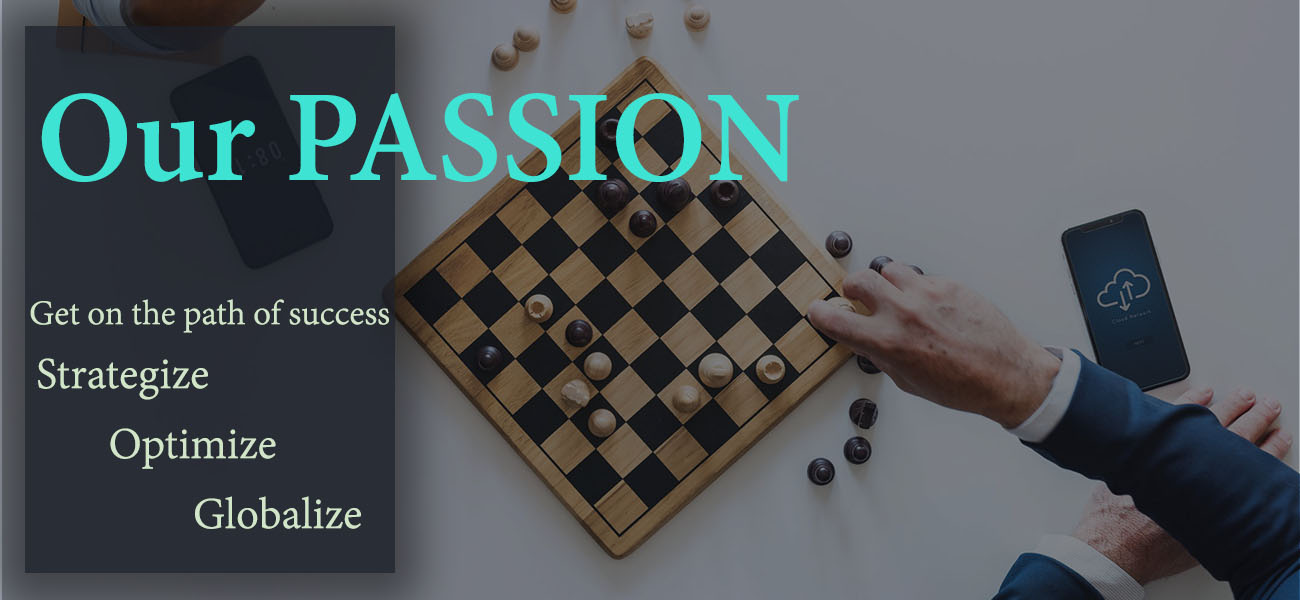
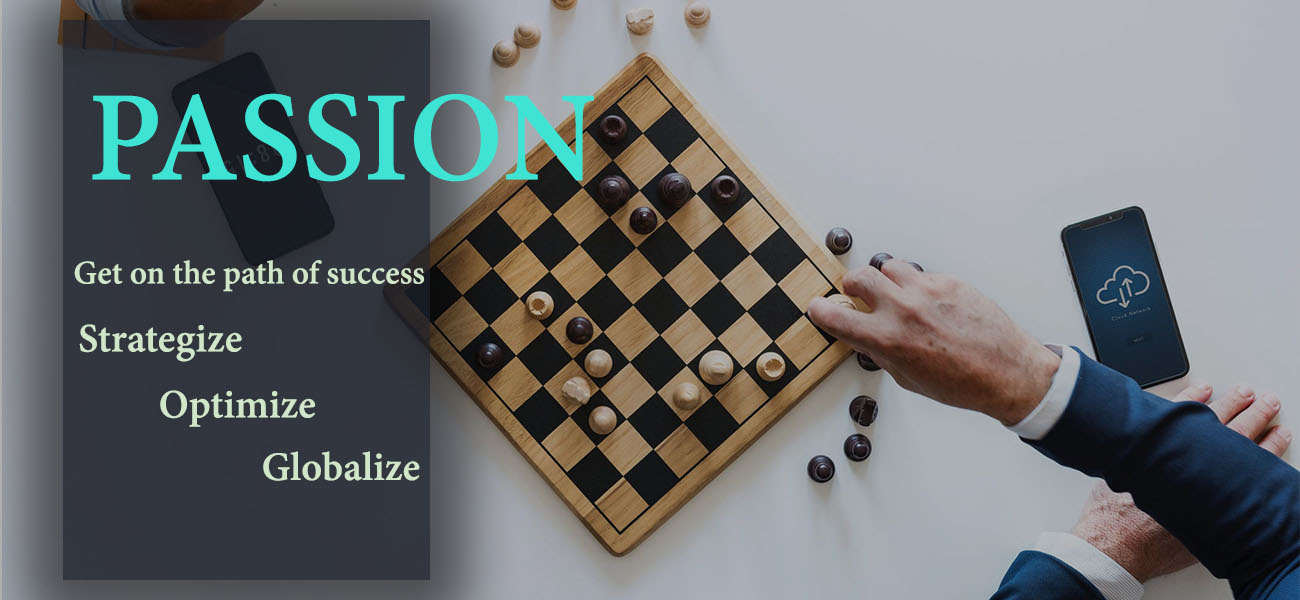
slider updated left button shifter , our in hedding f every slider removed

diff --git a/css/index.css b/css/index.css
@@ -3,6 +3,18 @@
 	position: relative;
 
 }
+.left{
+    padding-left: 0%!important;
+    margin-left: 0px !important ;
+    position: absolute;
+    left: -3.5em;
+
+}
+.carousel-indicators {
+    margin: 0px;
+    height: 0px;
+}
+
 body{
   background-color: #fafafa;
   padding-top: 75px;
@@ -412,7 +424,7 @@ input ,textarea{
 	position: relative;
 	.transition(3s ease-in-out left);
 	overflow: hidden !important;
- 	
+
 	background-size: 100% !important;
 }
 
